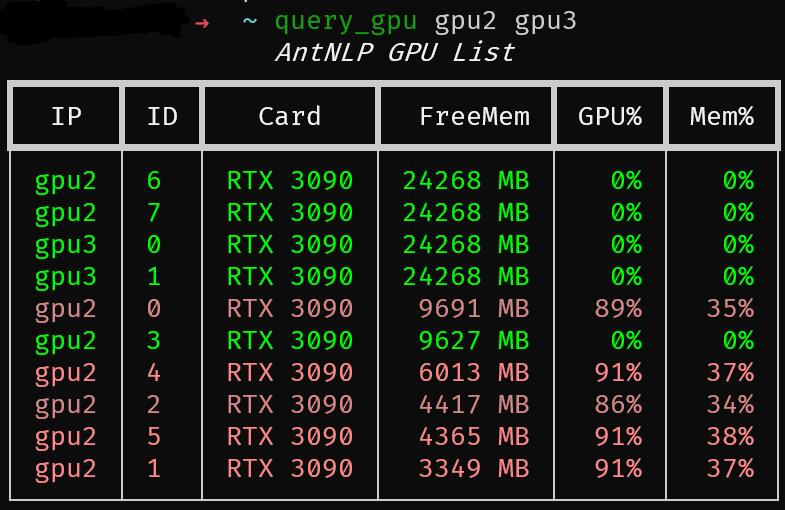
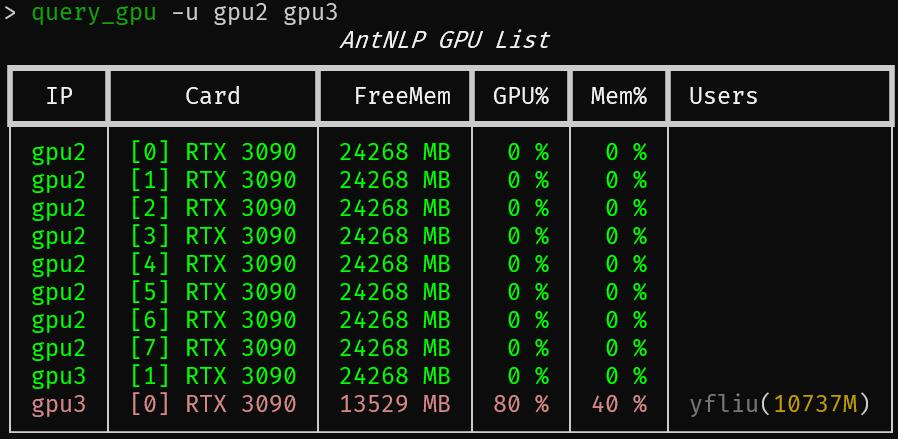
refactor: concurrent ssh

Changed region(s): [[0.0, 0.1481, 1.0, 1.0], [0.0, 0.0, 0.7338, 0.1185], [0.7643, 0.6515, 0.8255, 0.6811]]

diff --git a/query-gpu/query_gpu.py b/query-gpu/query_gpu.py
@@ -1,56 +1,76 @@
 #!/usr/bin/env python3
 
-import os
+from collections import defaultdict
+from concurrent.futures import ProcessPoolExecutor
+import subprocess
 import sys
 import time
+from typing import List, Dict
 
 from rich.live import Live
 from rich.table import Table
 
-def get_gpu(phys_machs, show_user=False):
-    gpu = []
-    for mach in phys_machs:
-        res = os.popen(f"ssh {mach} -T 'nvidia-smi --query-gpu=name,memory.free,utilization.gpu,utilization.memory,uuid --format=csv,nounits,noheader'")
-        res = res.readlines()
-        if show_user:
-            pids = os.popen(f"ssh {mach} -T 'nvidia-smi --query-compute-apps=pid,gpu_uuid --format=csv,nounits,noheader'")
-            pids = pids.readlines()
-            pid_list = {}
-            for pid in pids:
-                pid = pid.strip().split(', ')
-                if pid[1] not in pid_list:
-                    pid_list[pid[1]] = [pid[0],]
-                else:
-                    pid_list[pid[1]].append(pid[0])
-        for i in range(len(res)):
-            gpu_name, free_mem, gpu_util, mem_util, uuid = res[i].strip().split(', ')
-            gpu_name = gpu_name.replace('NVIDIA', '')
-            gpu_name = gpu_name.replace('GeForce', '')
-            gpu_name = gpu_name.strip()
+cmd_gpu = 'nvidia-smi --query-gpu=name,memory.free,utilization.gpu,utilization.memory,uuid --format=csv,nounits,noheader'
+cmd_app = 'nvidia-smi --query-compute-apps=pid,used_gpu_memory,gpu_uuid --format=csv,nounits,noheader'
+cmd_ps = 'ps -up'
 
-            if show_user:
-                gpu_user = ""
-                if uuid in pid_list:
-                    pids_for_uuid = ','.join(pid_list[uuid])
-                    # print(pids_for_uuid)
-                    users = os.popen(f"ssh {mach} -T 'ps -u -p {pids_for_uuid}'")
-                    users = users.readlines()[1:]
-                    uniq_users = set()
-                    for u in users:
-                        uniq_users.add(u.strip().split()[0])
-                    gpu_user = ' '.join(uniq_users)
-            if not show_user:
-                gpu.append((mach,  i, gpu_name, int(free_mem), int(gpu_util), int(mem_util)))
-            else:
-                gpu.append((mach,  i, gpu_name, int(free_mem), int(gpu_util), int(mem_util), gpu_user))
-    # Sort by free memory in descending order.
-    gpu.sort(key=lambda x: -x[3])
-    return gpu
+# run command on remote machine using ssh, return lines of output
+def ssh_run(machine: str, command: str) -> List[str]:
+    return subprocess.run(f"ssh {machine} -T '{command}'",
+        shell=True, text=True,
+        stdout=subprocess.PIPE, stderr=subprocess.STDOUT,
+    ).stdout.splitlines()
+
+# get gpu data on one machine
+def get_data(mach, show_user=False):
+    data = []
+    if show_user:
+        # get app (user & mem) in each card
+        app_rst = [app.strip().split(', ') for app in ssh_run(mach, cmd_app)]
+        card2apps = defaultdict(list)
+        if len(app_rst) > 0:
+            pids = ' '.join(pid for pid, _, _ in app_rst)
+            ps_rst = [ps.strip().split()[:2] for ps in ssh_run(mach, f"{cmd_ps} {pids}")[1:]]  # throw header & get first 2 cols
+            pid2user = {}
+            for user, pid in ps_rst:
+                pid2user[pid] = user
+            for pid, mem, gpu_uuid in app_rst:
+                card2apps[gpu_uuid].append({
+                    'username': pid2user[pid],
+                    'user_mem': int(mem)
+                })
+        # sort per card
+        for uuid in card2apps.keys():
+            card2apps[uuid].sort(key=lambda x: -x['user_mem'])
+    gpu_rst = [gpu.strip().split(', ') for gpu in ssh_run(mach, cmd_gpu)]
+    for idx, (gpu_name, free_mem, gpu_util, mem_util, uuid) in enumerate(gpu_rst):
+        gpu_name = f"[{idx}] {gpu_name.replace('NVIDIA', '').replace('GeForce', '').strip()}"
+        datum = {
+            'idx': idx,  # only used in sort
+            'machine': mach,
+            'gpu_name': gpu_name,
+            'free_mem': int(free_mem),
+            'gpu_util': int(gpu_util),
+            'mem_util': int(mem_util),
+        }
+        if show_user:
+            datum['apps'] = card2apps[uuid]
+        data.append(datum)
+    return data
+
+def get_all(phys_machs, show_user=False):
+    rst = []
+    with ProcessPoolExecutor(max_workers=len(phys_machs)) as pool:
+        # call get_data() concurrently using proc pool
+        for data in pool.map(get_data, phys_machs, [show_user] * len(phys_machs)):
+            rst += data
+    # Sort by free memory in descending order, then by name in ascending order.
+    rst.sort(key=lambda x: (-x['free_mem'], x['machine'], x['idx']))
+    return rst
 
 def generate_table(phys_machs, show_user=False):
     table = Table(title="[bold]AntNLP GPU List", title_justify='center', caption_justify='center')
     table.add_column("IP", justify='center')
-    table.add_column("ID", justify='center')
     table.add_column("Card", justify='center')
     table.add_column("FreeMem", justify='right')
     table.add_column("GPU%", justify='right')
@@ -58,28 +78,20 @@ def generate_table(phys_machs, show_user=False):
     if show_user:
         table.add_column("Users", justify='left')
 
-    gpu = get_gpu(phys_machs, show_user)
-    for i in range(len(gpu)):
-        gpu_now = gpu[i]
-        h = (max(gpu_now[4], gpu_now[5]))/100
+    data = get_all(phys_machs, show_user)
+    for gpu in data:
+        h = (max(gpu['gpu_util'], gpu['mem_util']))/100
         r, g, b = int(h*255), int((1 - 0.7*h)*255), int(0.4*h*255)
+        row = [
+            f"[bold rgb({r},{g},{b})]{gpu['machine']}",
+            f"[bold rgb({r},{g},{b})]{gpu['gpu_name']}",
+            f"[bold rgb({r},{g},{b})]{gpu['free_mem']} MB",
+            f"[bold rgb({r},{g},{b})]{gpu['gpu_util']} %",
+            f"[bold rgb({r},{g},{b})]{gpu['mem_util']} %",
+        ]
         if show_user:
-            table.add_row(
-                f"[bold rgb({r},{g},{b})]{gpu_now[0]}",
-                f"[bold rgb({r},{g},{b})]{gpu_now[1]}",
-                f"[bold rgb({r},{g},{b})]{gpu_now[2]}",
-                f"[bold rgb({r},{g},{b})]{gpu_now[3]} MB",
-                f"[bold rgb({r},{g},{b})]{gpu_now[4]}%",
-                f"[bold rgb({r},{g},{b})]{gpu_now[5]}%",
-                f"[bold rgb({r},{g},{b})]{gpu_now[6]}")
-        else:
-            table.add_row(
-                f"[bold rgb({r},{g},{b})]{gpu_now[0]}",
-                f"[bold rgb({r},{g},{b})]{gpu_now[1]}",
-                f"[bold rgb({r},{g},{b})]{gpu_now[2]}",
-                f"[bold rgb({r},{g},{b})]{gpu_now[3]} MB",
-                f"[bold rgb({r},{g},{b})]{gpu_now[4]}%",
-                f"[bold rgb({r},{g},{b})]{gpu_now[5]}%")
+            row.append(' '.join(f"[bright_black]{app['username']}[white]([yellow]{app['user_mem']}M[white])[/white]" for app in gpu['apps']))
+        table.add_row(*row)
     return table
 
 if __name__ == '__main__':
